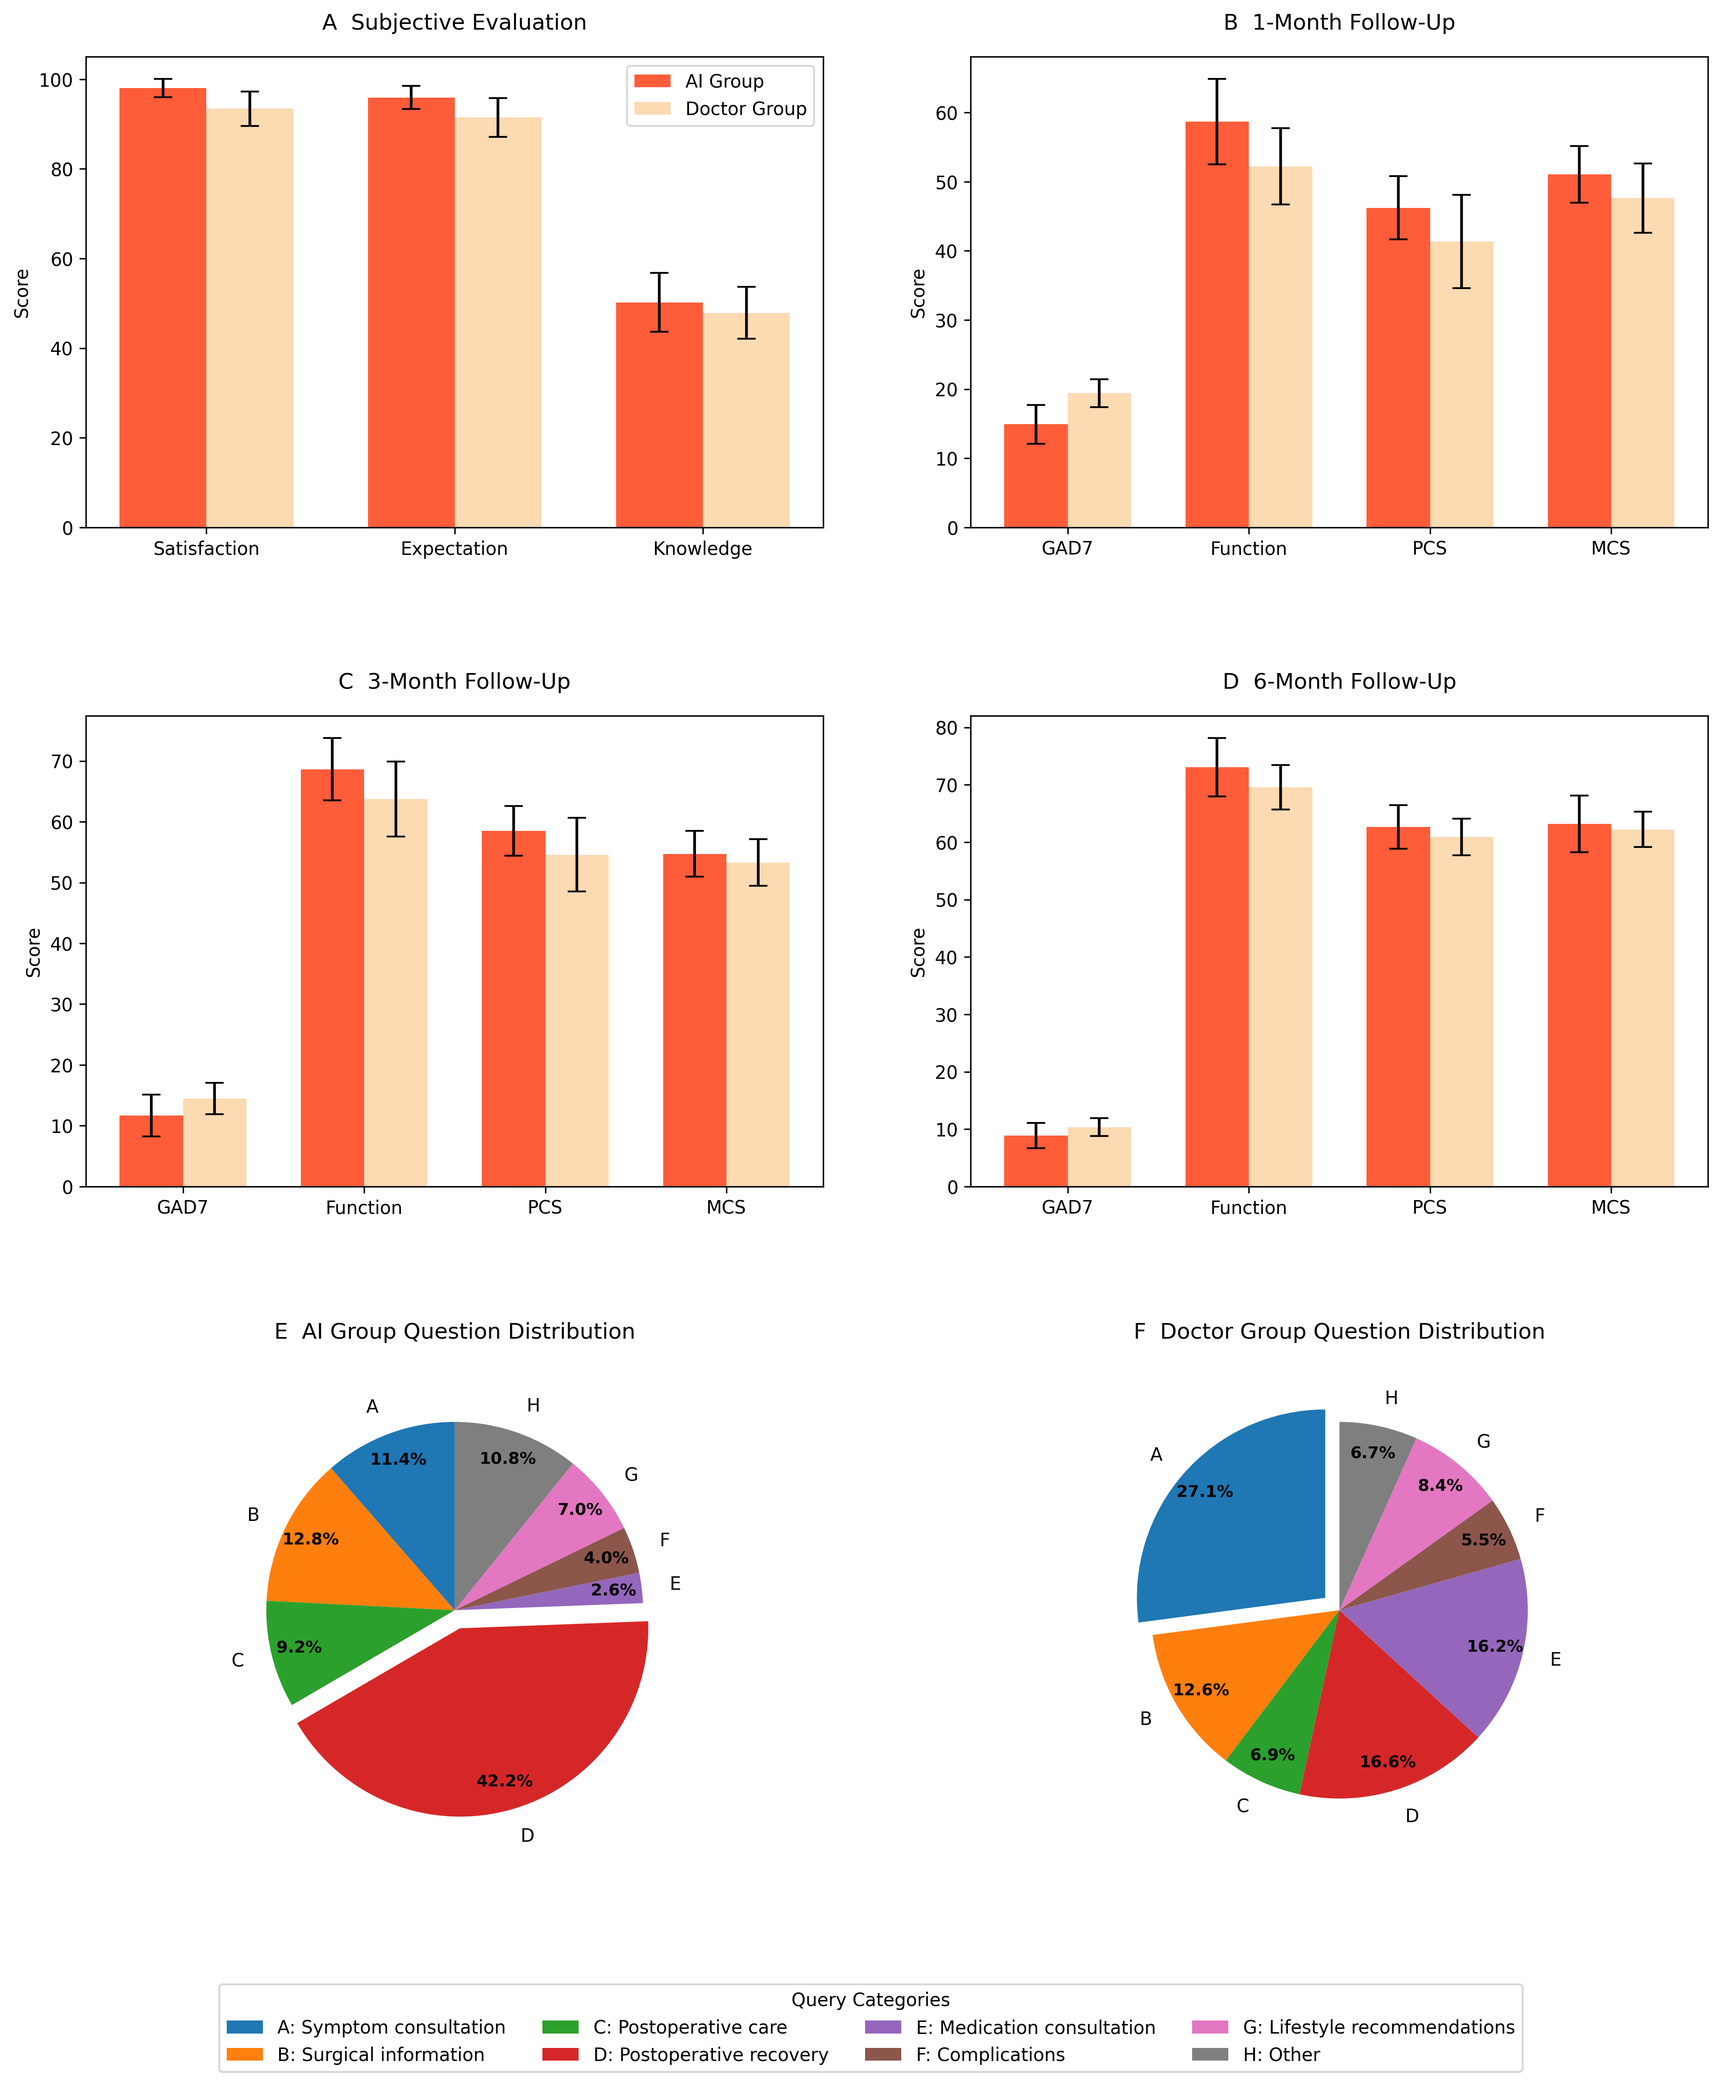
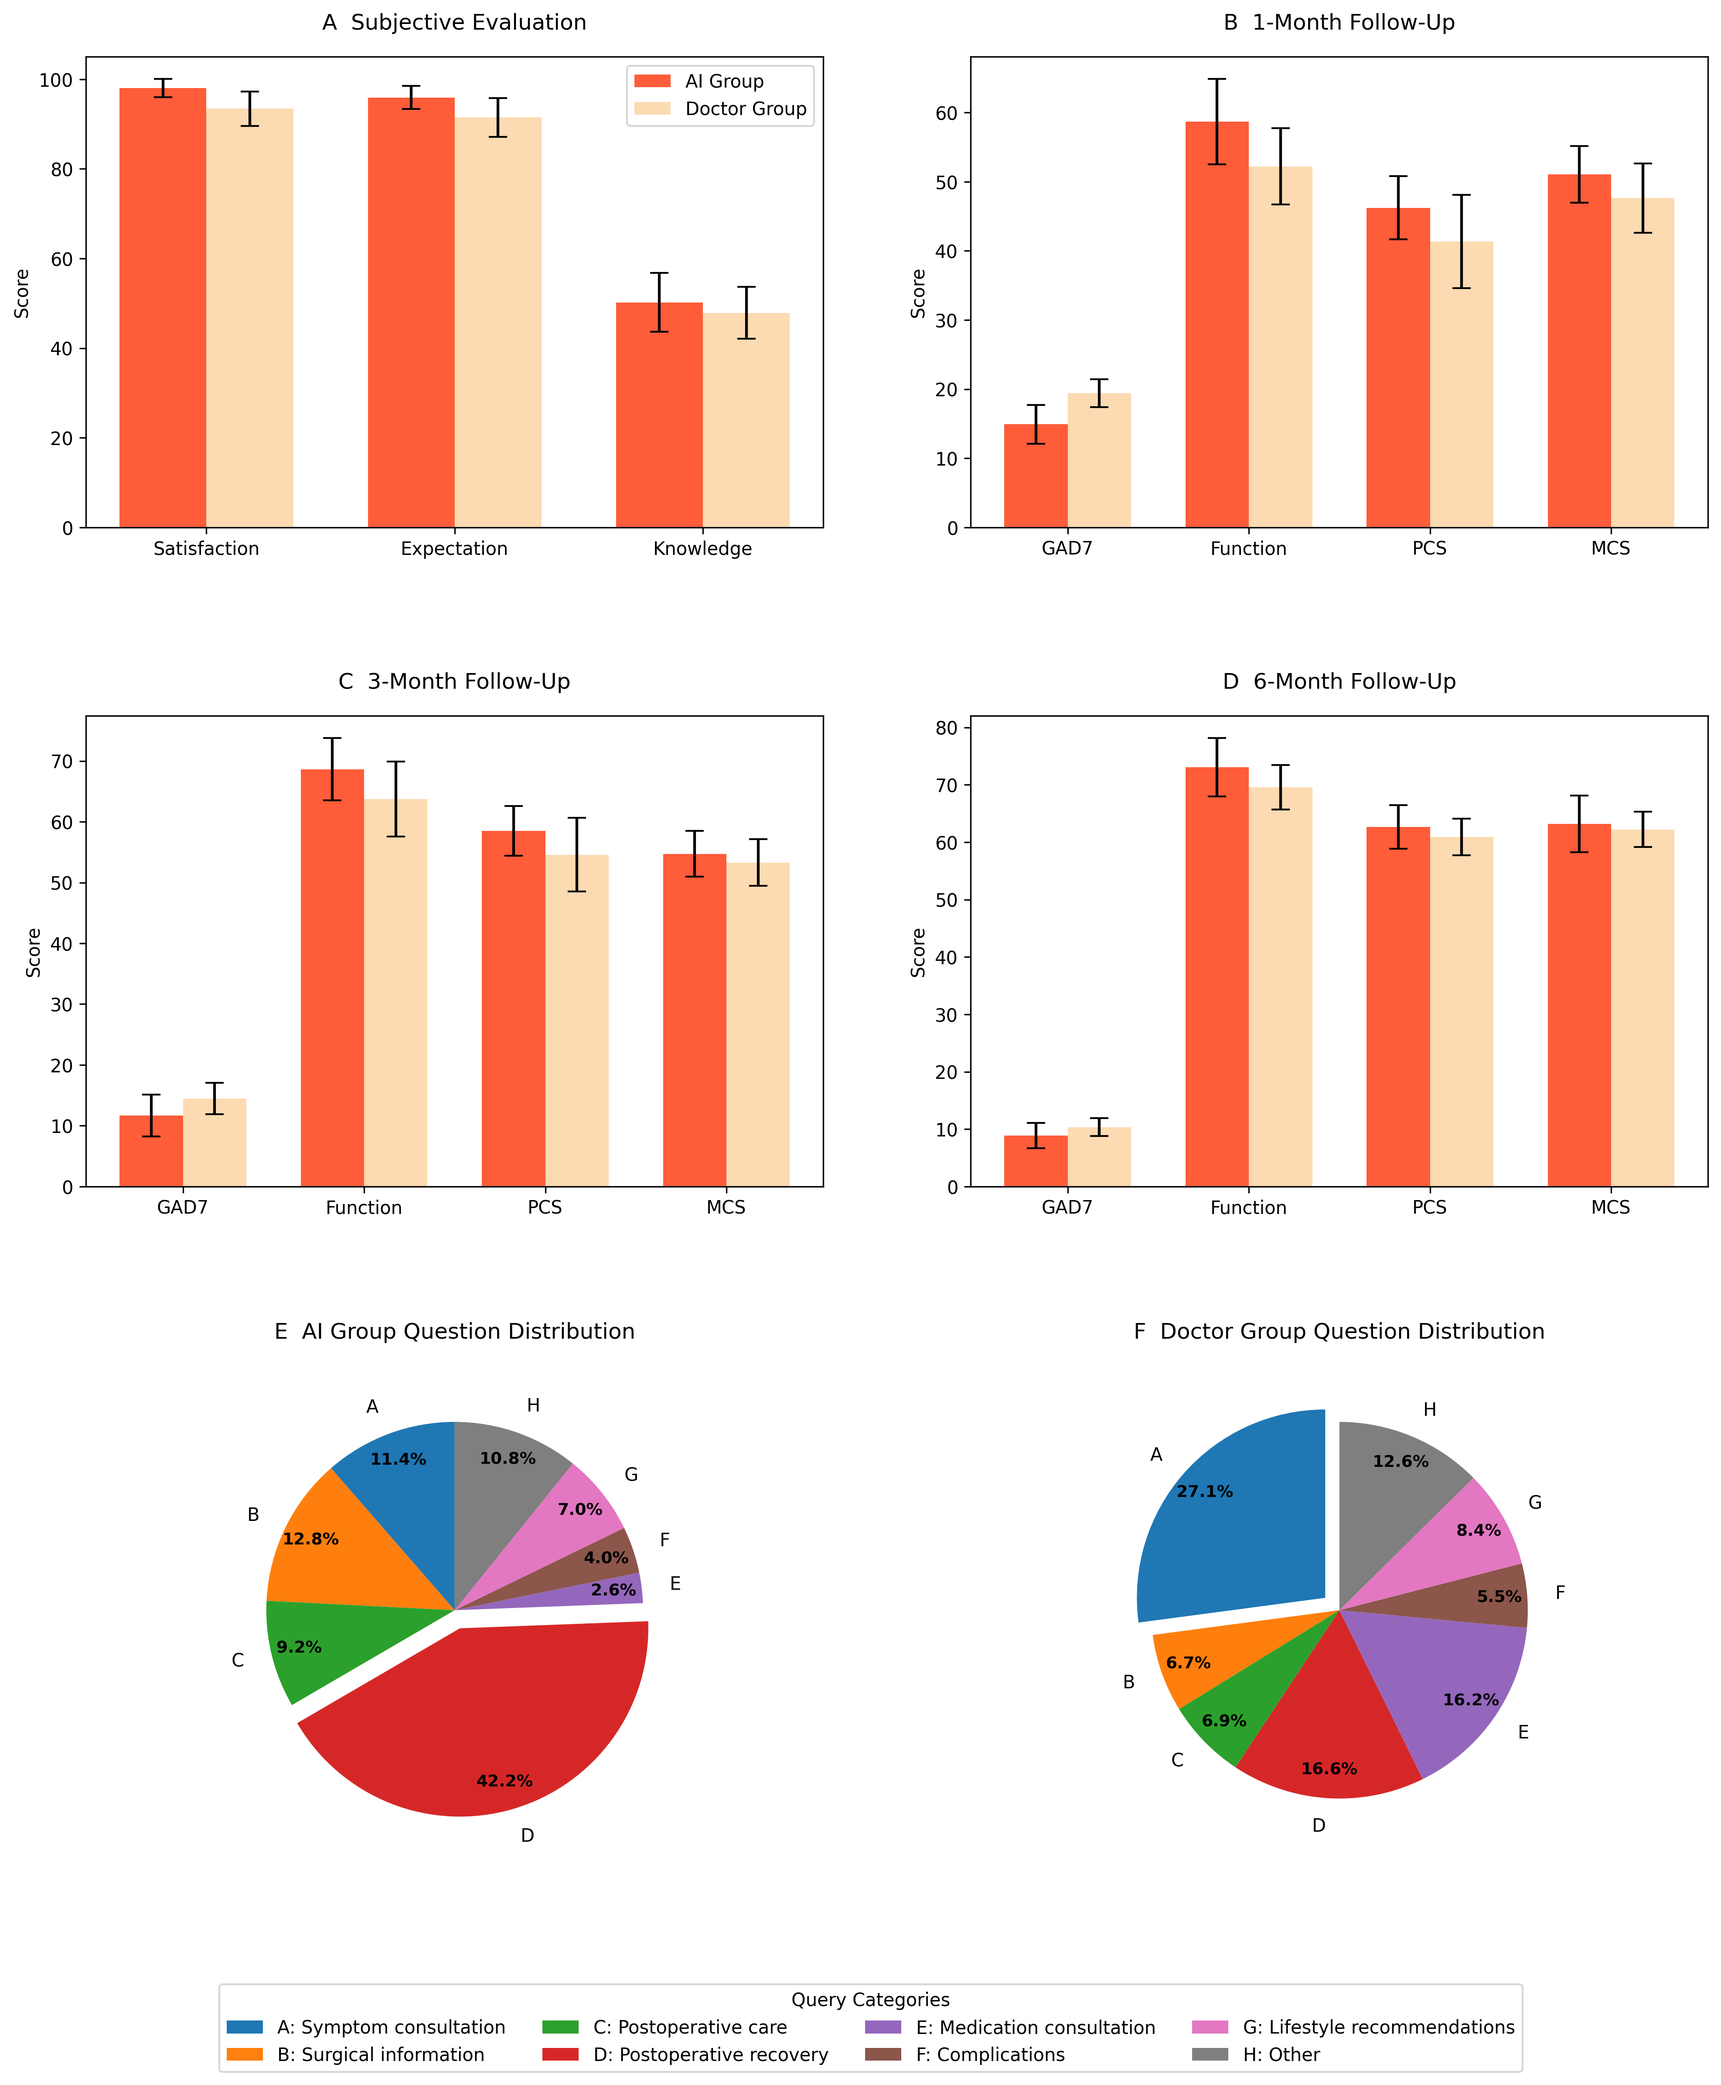
Fix Doctor Group pie chart distribution

Changed region(s): [[0.6856, 0.6853, 0.9037, 0.8723]]

diff --git a/analysis.py b/analysis.py
@@ -115,7 +115,7 @@ plot_bar_chart(axes[1,1], ai_group[ai_group["month"]==6], doctor_group[doctor_gr
 # ============================================================
 # Using exact percentages from the paper so they display perfectly
 ai_percentages = [11.4, 12.8, 9.2, 42.2, 2.6, 4.0, 7.0, 10.8]
-doc_percentages = [27.1, 12.6, 6.9, 16.6, 16.2, 5.5, 8.4, 6.7]
+doc_percentages = [27.1, 6.7, 6.9, 16.6, 16.2, 5.5, 8.4, 12.6]
 
 def plot_exact_pie(ax, percentages, explode_target, title):
     explode = [0.1 if cat == explode_target else 0 for cat in query_categories]
